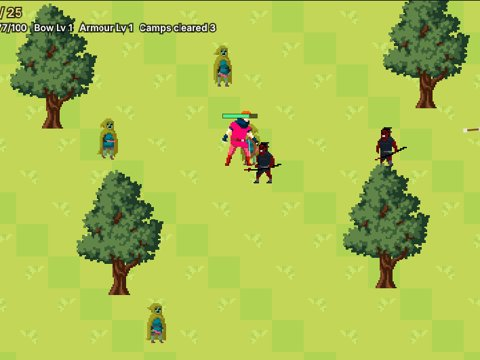
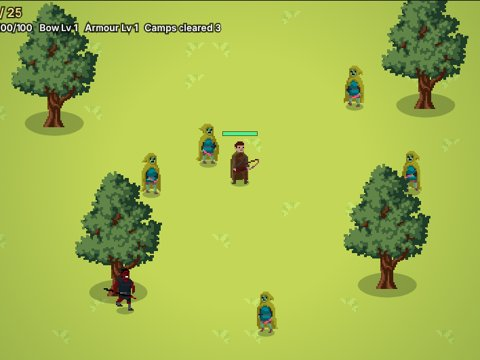
Improve Gunther's visuals (#5)
* Add Gunther as a playable browser game at /gunther

Plain HTML canvas and JavaScript, no build step. Title, island map,
orc camp battles with scaling difficulty, and a town for healing and
upgrades. Works with mouse and keyboard or touch. Progress is saved in
the browser. Links the game from the projects grid.

Claude-Session: https://claude.ai/code/session_017CNj2LxdrvNdNXZdsMyHYX

* Use a tall play area on upright phones

The canvas switches between 960x540 and 540x900 depending on the
window shape, and re-lays out the arena, trees and HUD text. Uses dvh
so mobile browser toolbars don't cut the game off.

Claude-Session: https://claude.ai/code/session_017CNj2LxdrvNdNXZdsMyHYX

* Improve Gunther's visuals

Swap the mismatched side-scroller hero for the Forest Ranger archer
sheet, which matches the orcs' style and scale and has a real shooting
animation. Replace the chessboard grass with plain grass and sparse
tufts, add ground shadows and darker arena edges, and soften the hurt
flash.

Claude-Session: https://claude.ai/code/session_017CNj2LxdrvNdNXZdsMyHYX

---------

diff --git a/gunther/game.js b/gunther/game.js
@@ -14,7 +14,7 @@
   let portrait = false;
 
   // ---------------------------------------------------------------- assets
-  const ASSET_NAMES = ['gunther-idle', 'gunther-run', 'gunther-death', 'orc-yellow', 'orc-red',
+  const ASSET_NAMES = ['gunther', 'orc-yellow', 'orc-red',
     'trees', 'keep', 'houses', 'grass', 'orc-tent', 'big-tree'];
   const img = {};
 
@@ -107,13 +107,28 @@
     ctx.restore();
   }
 
-  // Gunther's art sits in the middle of a 150x150 frame, with his feet near y=95.
+  // Gunther and the orcs share one sheet layout: 32x32 frames, 10 columns,
+  // rows for idle (0), walk (2), attack (3) and death (4). Feet are at the bottom of the frame.
   function drawGunther(x, y, scale, anim, time, flip) {
-    const sheets = { idle: ['gunther-idle', 8], run: ['gunther-run', 8], death: ['gunther-death', 6] };
-    const [name, count] = sheets[anim];
-    let frame = Math.floor(time * 10);
-    frame = anim === 'death' ? Math.min(frame, count - 1) : frame % count;
-    drawFrame(img[name], 150, 150, frame, 0, x, y - 20 * scale, scale, flip);
+    let row = 0, col = Math.floor(time * 8) % 10;
+    if (anim === 'run') { row = 2; col = Math.floor(time * 12) % 10; }
+    else if (anim === 'shoot') { row = 3; col = 3 + Math.min(Math.floor(time * 24), 5); }
+    else if (anim === 'death') { row = 4; col = Math.min(Math.floor(time * 10), 9); }
+    shadow(x, y + 2 * scale, 7 * scale);
+    drawFrame(img.gunther, 32, 32, col, row, x, y - 13 * scale, scale, flip);
+  }
+
+  // Soft oval shadow so characters and trees look planted on the ground.
+  function shadow(x, y, r) {
+    ctx.fillStyle = 'rgba(20, 40, 20, 0.28)';
+    ctx.beginPath(); ctx.ellipse(x, y, r, r * 0.42, 0, 0, Math.PI * 2); ctx.fill();
+  }
+
+  // One grass tile. Mostly plain, with a few tufts picked by a hash so it doesn't look like a chessboard.
+  function drawGrass(sx, sy, tx, ty) {
+    const h = ((tx * 73856093) ^ (ty * 19349663)) >>> 0;
+    const v = h % 11;
+    ctx.drawImage(img.grass, v === 0 ? 16 : (v === 1 ? 32 : 0), 0, 16, 16, sx, sy, 48, 48);
   }
 
   function text(str, x, y, size, colour, align) {
@@ -289,13 +304,13 @@
             !isLand((tx + 0.5) * TILE, (ty + 1.5) * TILE) || !isLand((tx + 0.5) * TILE, (ty - 0.5) * TILE);
           if (edge) { ctx.fillStyle = '#e7d593'; ctx.fillRect(sx, sy, TILE, TILE); }
           else {
-            const v = (tx * 7 + ty * 13) % 5;
-            ctx.drawImage(img.grass, v === 0 ? 16 : (v === 1 ? 32 : 0), v === 2 ? 16 : 0, 16, 16, sx, sy, TILE, TILE);
+            drawGrass(sx, sy, tx, ty);
           }
         }
       }
       // Places, scenery and Gunther, sorted so things lower on screen draw in front.
       const things = decor.map(d => ({ y: d.y, draw: () => {
+        shadow(d.x - cam.x, d.y - cam.y + 12, 16);
         if (d.kind === 'tree') ctx.drawImage(img.trees, d.variant * 16, 0, 16, 16, d.x - cam.x - 24, d.y - cam.y - 34, 48, 48);
         else ctx.drawImage(img.houses, d.variant * 16, 0, 16, 16, d.x - cam.x - 24, d.y - cam.y - 30, 48, 48);
       } }));
@@ -313,7 +328,7 @@
         } });
       });
       const p = this.player;
-      things.push({ y: p.y, draw: () => drawGunther(p.x - cam.x, p.y - cam.y - 14, 1.3, p.moving ? 'run' : 'idle', p.time, p.flip) });
+      things.push({ y: p.y, draw: () => drawGunther(p.x - cam.x, p.y - cam.y, 2, p.moving ? 'run' : 'idle', p.time, p.flip) });
       things.sort((a, b) => a.y - b.y).forEach(t => t.draw());
 
       drawStats(24, 16);
@@ -344,7 +359,7 @@
     enter() {
       // A battle never starts below half health, so a loss can never leave you stuck.
       game.health = Math.max(game.health, game.maxHealth * 0.5);
-      this.p = { x: W / 2, y: H / 2, flip: false, time: 0, moving: false, dead: false, deadTime: 0, hurtFlash: 0 };
+      this.p = { x: W / 2, y: H / 2, flip: false, time: 0, moving: false, dead: false, deadTime: 0, hurtFlash: 0, shootTime: 9 };
       this.orcs = [];
       this.arrows = [];
       this.kills = 0;
@@ -383,6 +398,7 @@
       const p = this.p;
       p.time += dt;
       p.hurtFlash = Math.max(0, p.hurtFlash - dt);
+      p.shootTime += dt;
       if (p.dead) { p.deadTime += dt; }
 
       if (!this.over) {
@@ -407,16 +423,17 @@
         let wantFire = false;
         if (pointer.touch) {
           const o = this.nearestOrc();
-          if (o) { this.aim = Math.atan2(o.y - 16 - (p.y - 48), o.x - p.x); wantFire = dist(o.x, o.y, p.x, p.y) < 520; }
+          if (o) { this.aim = Math.atan2(o.y - 16 - (p.y - 28), o.x - p.x); wantFire = dist(o.x, o.y, p.x, p.y) < 520; }
         } else {
-          this.aim = Math.atan2(pointer.y - (p.y - 48), pointer.x - p.x);
+          this.aim = Math.atan2(pointer.y - (p.y - 28), pointer.x - p.x);
           wantFire = pointer.down || keys[' '];
         }
         p.flip = Math.cos(this.aim) < 0;
         this.fireTimer -= dt;
         if (wantFire && this.fireTimer <= 0) {
           this.fireTimer = rules.fireDelay();
-          this.arrows.push({ x: p.x + Math.cos(this.aim) * 26, y: p.y - 48 + Math.sin(this.aim) * 26, a: this.aim, travelled: 0 });
+          p.shootTime = 0;
+          this.arrows.push({ x: p.x + Math.cos(this.aim) * 26, y: p.y - 28 + Math.sin(this.aim) * 26, a: this.aim, travelled: 0 });
         }
 
         // Spawning.
@@ -507,18 +524,23 @@
       const p = this.p;
       for (let y = 0; y < H; y += 48) {
         for (let x = 0; x < W; x += 48) {
-          const v = ((x / 48) * 7 + (y / 48) * 13) % 5;
-          ctx.drawImage(img.grass, v === 0 ? 16 : (v === 1 ? 32 : 0), v === 2 ? 16 : 0, 16, 16, x, y, 48, 48);
+          drawGrass(x, y, x / 48, y / 48);
         }
       }
       const things = [];
-      for (const t of TREES) things.push({ y: t.y, draw: () => ctx.drawImage(img['big-tree'], t.x - 65, t.y - 176, 130, 188) });
+      // Darker ground towards the edges so the arena reads as a forest clearing.
+      const shade = ctx.createRadialGradient(W / 2, H / 2, Math.min(W, H) * 0.35, W / 2, H / 2, Math.max(W, H) * 0.72);
+      shade.addColorStop(0, 'rgba(30, 70, 30, 0)');
+      shade.addColorStop(1, 'rgba(30, 70, 30, 0.45)');
+      ctx.fillStyle = shade; ctx.fillRect(0, 0, W, H);
+      for (const t of TREES) things.push({ y: t.y, draw: () => { shadow(t.x, t.y + 6, 44); ctx.drawImage(img['big-tree'], t.x - 65, t.y - 176, 130, 188); } });
       for (const o of this.orcs) {
         things.push({ y: o.y, draw: () => {
           let col, row;
           if (o.state === 'dead') { row = 4; col = Math.min(Math.floor(o.stateTime * 10), 9); ctx.globalAlpha = clamp((1.6 - o.stateTime) / 0.6, 0, 1); }
           else if (o.state === 'attack') { row = 3; col = 5 + Math.floor(o.stateTime * 12) % 5; }
           else { row = 2; col = Math.floor(o.time * 8) % 10; }
+          if (o.state !== 'dead') shadow(o.x, o.y + 6, 13);
           if (o.flash > 0) ctx.filter = 'brightness(2.2)';
           drawFrame(img[o.red ? 'orc-red' : 'orc-yellow'], 32, 32, col, row, o.x, o.y - 26, 2, o.flip);
           ctx.filter = 'none';
@@ -526,14 +548,15 @@
         } });
       }
       things.push({ y: p.y, draw: () => {
-        if (p.hurtFlash > 0) ctx.filter = 'brightness(1.8) saturate(2)';
-        drawGunther(p.x, p.y - 22, 2, p.dead ? 'death' : (p.moving ? 'run' : 'idle'), p.dead ? p.deadTime : p.time, p.flip);
+        if (p.hurtFlash > 0) ctx.filter = 'brightness(1.7)';
+        const shooting = !p.dead && p.shootTime < 0.25;
+        drawGunther(p.x, p.y, 2, p.dead ? 'death' : (shooting ? 'shoot' : (p.moving ? 'run' : 'idle')),
+          p.dead ? p.deadTime : (shooting ? p.shootTime : p.time), p.flip);
         ctx.filter = 'none';
-        if (!p.dead) drawBow(p.x, p.y - 48, this.aim);
         // Health bar above his head.
-        ctx.fillStyle = 'rgba(0,0,0,0.6)'; ctx.fillRect(p.x - 26, p.y - 100, 52, 7);
+        ctx.fillStyle = 'rgba(0,0,0,0.6)'; ctx.fillRect(p.x - 26, p.y - 74, 52, 7);
         ctx.fillStyle = game.health > game.maxHealth * 0.3 ? '#50f08b' : '#f05a50';
-        ctx.fillRect(p.x - 25, p.y - 99, 50 * game.health / game.maxHealth, 5);
+        ctx.fillRect(p.x - 25, p.y - 73, 50 * game.health / game.maxHealth, 5);
       } });
       things.sort((a, b) => a.y - b.y).forEach(t => t.draw());
       for (const a of this.arrows) drawArrow(a.x, a.y, a.a);
@@ -559,15 +582,6 @@
     if (d < r && d > 0) { obj.x = cx + (obj.x - cx) / d * r; obj.y = cy + (obj.y - cy) / d * r; }
   }
 
-  function drawBow(x, y, angle) {
-    ctx.save();
-    ctx.translate(x, y); ctx.rotate(angle);
-    ctx.strokeStyle = '#e9e4d8'; ctx.lineWidth = 1;
-    ctx.beginPath(); ctx.moveTo(14, -16); ctx.lineTo(14, 16); ctx.stroke();
-    ctx.strokeStyle = '#8a4b1f'; ctx.lineWidth = 3.5;
-    ctx.beginPath(); ctx.moveTo(14, -16); ctx.quadraticCurveTo(30, 0, 14, 16); ctx.stroke();
-    ctx.restore();
-  }
   function drawArrow(x, y, angle) {
     ctx.save();
     ctx.translate(x, y); ctx.rotate(angle);
